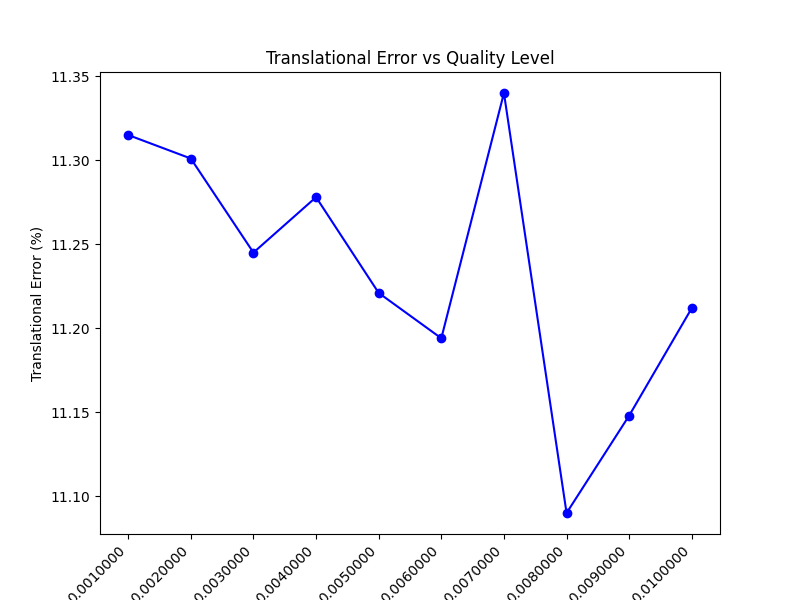
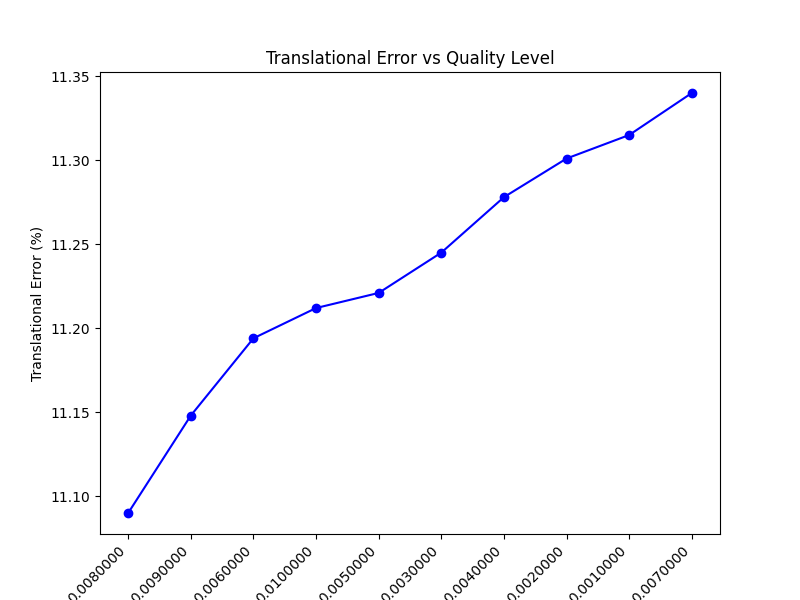
results

diff --git a/opencv_optical_flow/pipeline/tuning_script_multithread.py b/opencv_optical_flow/pipeline/tuning_script_multithread.py
@@ -152,7 +152,7 @@ class TuningVisualizer:
         plt.close(fig)
 
     def plot_error_summary(self, error_values, output_path, error_name, error_unit):
-        hyper_parameters, error_values = zip(*sorted(error_values.items(), key=lambda x: float(x[0])))
+        hyper_parameters, error_values = zip(*sorted(error_values.items(), key=lambda x: float(x[1])))
 
         fig, ax = plt.subplots(figsize=(8, 6))
         ax.set_title(f'{error_name} vs {self.hyperparameter_name}')
@@ -167,7 +167,7 @@ class TuningVisualizer:
         plt.close(fig)
 
     def plot_error_summary_combined(self, error_values, ax, error_name, error_unit):
-        hyper_parameters, error_values = zip(*sorted(error_values.items(), key=lambda x: float(x[0])))
+        hyper_parameters, error_values = zip(*sorted(error_values.items(), key=lambda x: float(x[1])))
 
         ax.set_title(f'{error_name} vs {self.hyperparameter_name}')
         ax.set_xlabel(self.hyperparameter_name)
@@ -487,7 +487,7 @@ def tune_hyperparameters_reproj_threshold_narrow(base_config_file, base_output_f
 
 if __name__ == "__main__":
 
-    base_config_file = "config/pipeline_config_4km_tuning.ini"
+    # base_config_file = "config/pipeline_config_4km_tuning.ini"
 
 
     # hyperparameter_name = "Max Features"
@@ -499,17 +499,17 @@ if __name__ == "__main__":
     # hyperparameter_name = "K"
     # base_output_folder = "../results/4km/tuning_k"
 
-    # hyperparameter_name = "Quality Level"
+    hyperparameter_name = "Quality Level"
     # base_output_folder = "../results/feature_detector/tuning_new_quality_level_wide"
     # base_output_folder = "../results/tuning_quality_level_narrow"
     # base_output_folder = "../results/tuning_quality_level_narrow_2"
-    # base_output_folder = "../results/4km/tuning_quality_level"
+    base_output_folder = "../results/4km/tuning_quality_level"
 
 
 
-    hyperparameter_name = "Min Distance"
+    # hyperparameter_name = "Min Distance"
     # base_output_folder = "../results/feature_detector/tuning_new_min_distance_wide"
-    base_output_folder = "../results/4km/tuning_min_distance"
+    # base_output_folder = "../results/4km/tuning_min_distance"
 
     #LK Param
     # hyperparameter_name = "Window Size"
@@ -540,7 +540,7 @@ if __name__ == "__main__":
         # tune_hyperparameters_max_features(base_config_file, base_output_folder)
         # tune_hyperparameters_z_min(base_config_file, base_output_folder)
         # tune_hyperparameters_k(base_config_file, base_output_folder)
-        tune_hyperparameters_min_distance_narrow(base_config_file, base_output_folder)
+        # tune_hyperparameters_min_distance_narrow(base_config_file, base_output_folder)
         # tune_hyperparameters_min_distance_wide(base_config_file, base_output_folder)
         # tune_hyperparameters_quality_level(base_config_file, base_output_folder)
 

diff --git a/opencv_optical_flow/results/4km/tuning_window_size/delete_png_script.py b/opencv_optical_flow/results/4km/tuning_window_size/delete_png_script.py
@@ -1,0 +1,21 @@
+import os
+import glob
+
+def delete_png_files(directory):
+    # Search for PNG files recursively
+    pattern = os.path.join(directory, '**/*.png')
+    png_files = glob.glob(pattern, recursive=True)
+
+    # Delete each PNG file
+    for file_path in png_files:
+        try:
+            os.remove(file_path)
+            print(f"Deleted file: {file_path}")
+        except OSError as e:
+            print(f"Error deleting file: {file_path} - {e}")
+
+# Specify the directory path where you want to delete PNG files
+directory_path = '.'
+if __name__ == "__main__":
+    # Call the function to delete PNG files within the directory
+    delete_png_files(directory_path)
